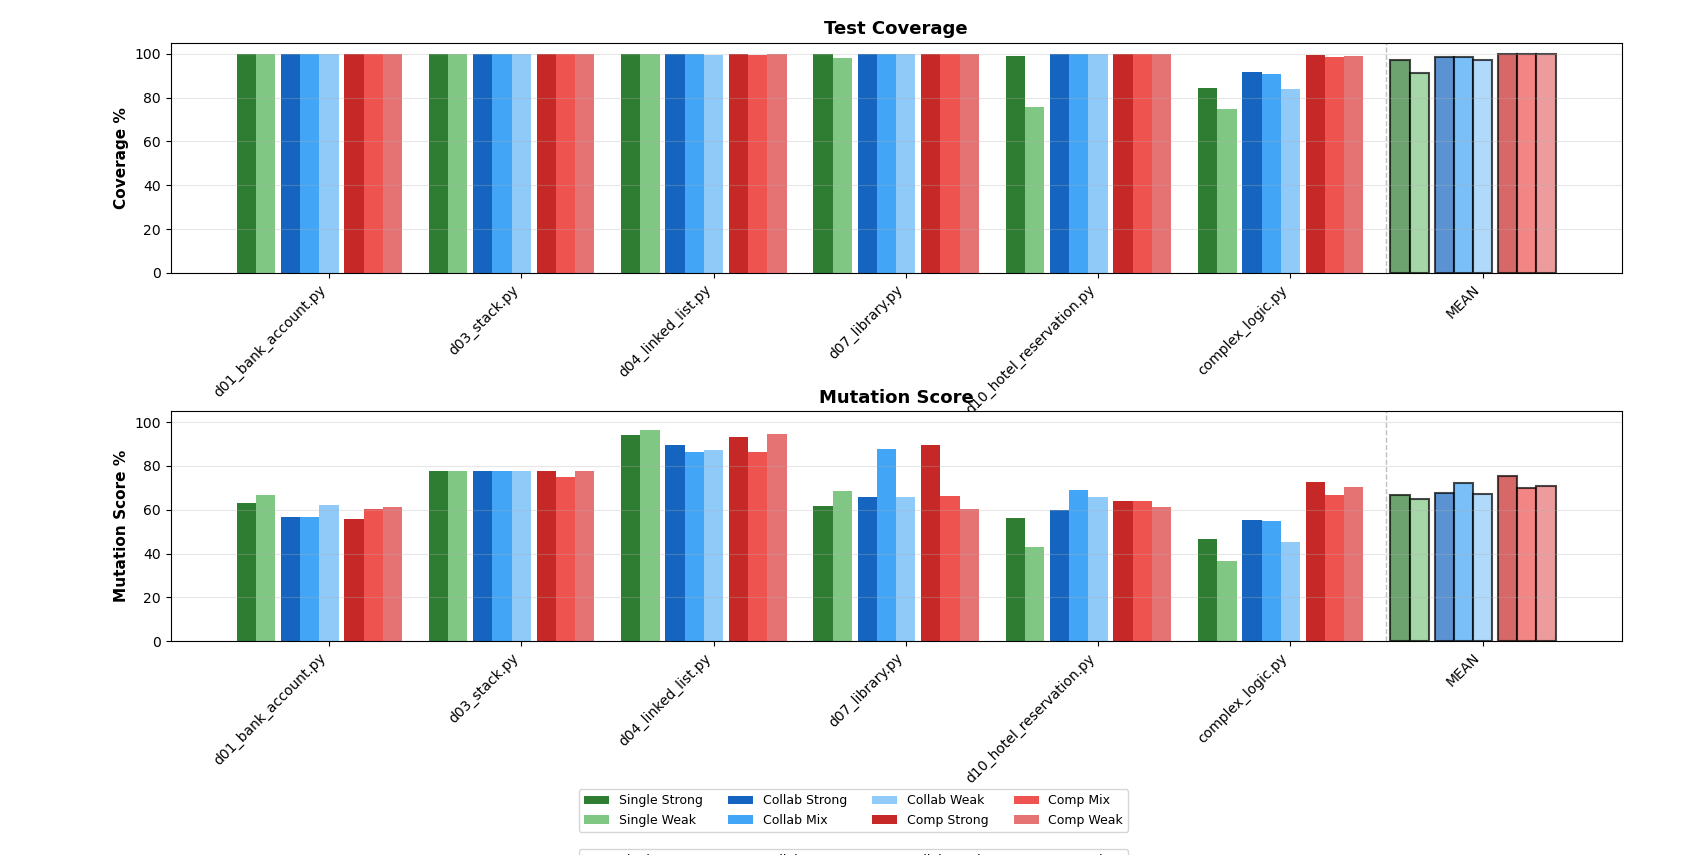
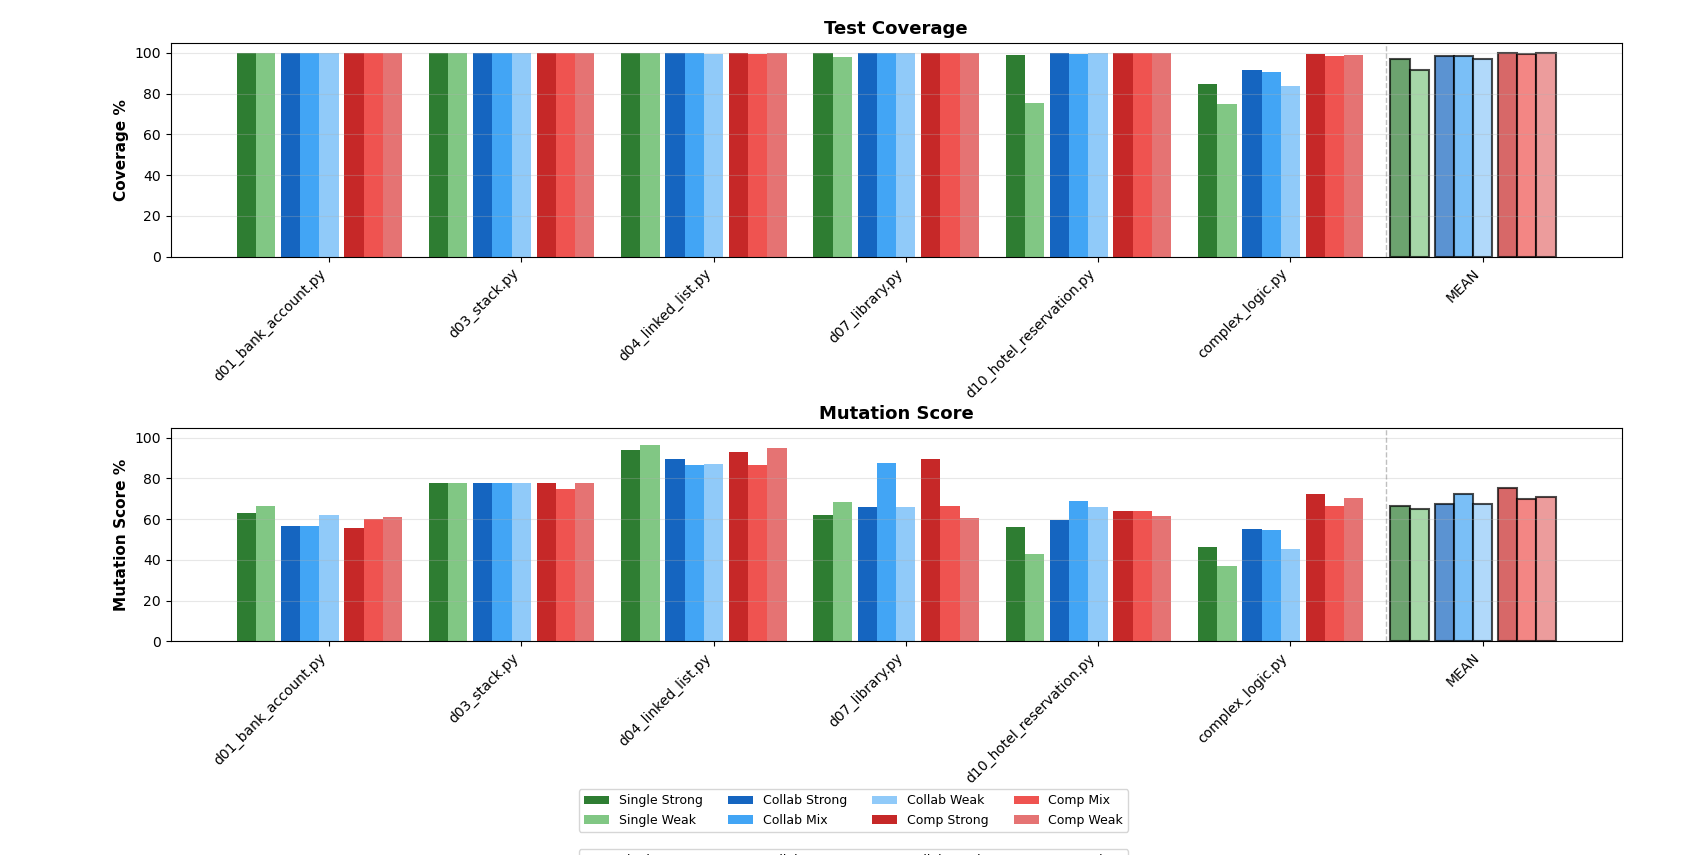
plot height fix

diff --git a/results_plot.py b/results_plot.py
@@ -314,7 +314,7 @@ def plot_metrics(aggregated_data, output_folder):
     # Aggiungi una linea verticale prima di MEAN per separarlo
     ax2.axvline(x=len(files) - 0.5, color='gray', linestyle='--', linewidth=1, alpha=0.5)
     
-    plt.subplots_adjust(bottom=0.25, hspace=0.6, left=0.1, right=0.95, top=0.95)
+    plt.subplots_adjust(bottom=0.25, hspace=0.8, left=0.1, right=0.95, top=0.95)
 
     # La legenda va spostata ancora più in basso dato che abbiamo alzato il margine bottom
     handles, labels = ax1.get_legend_handles_labels()
